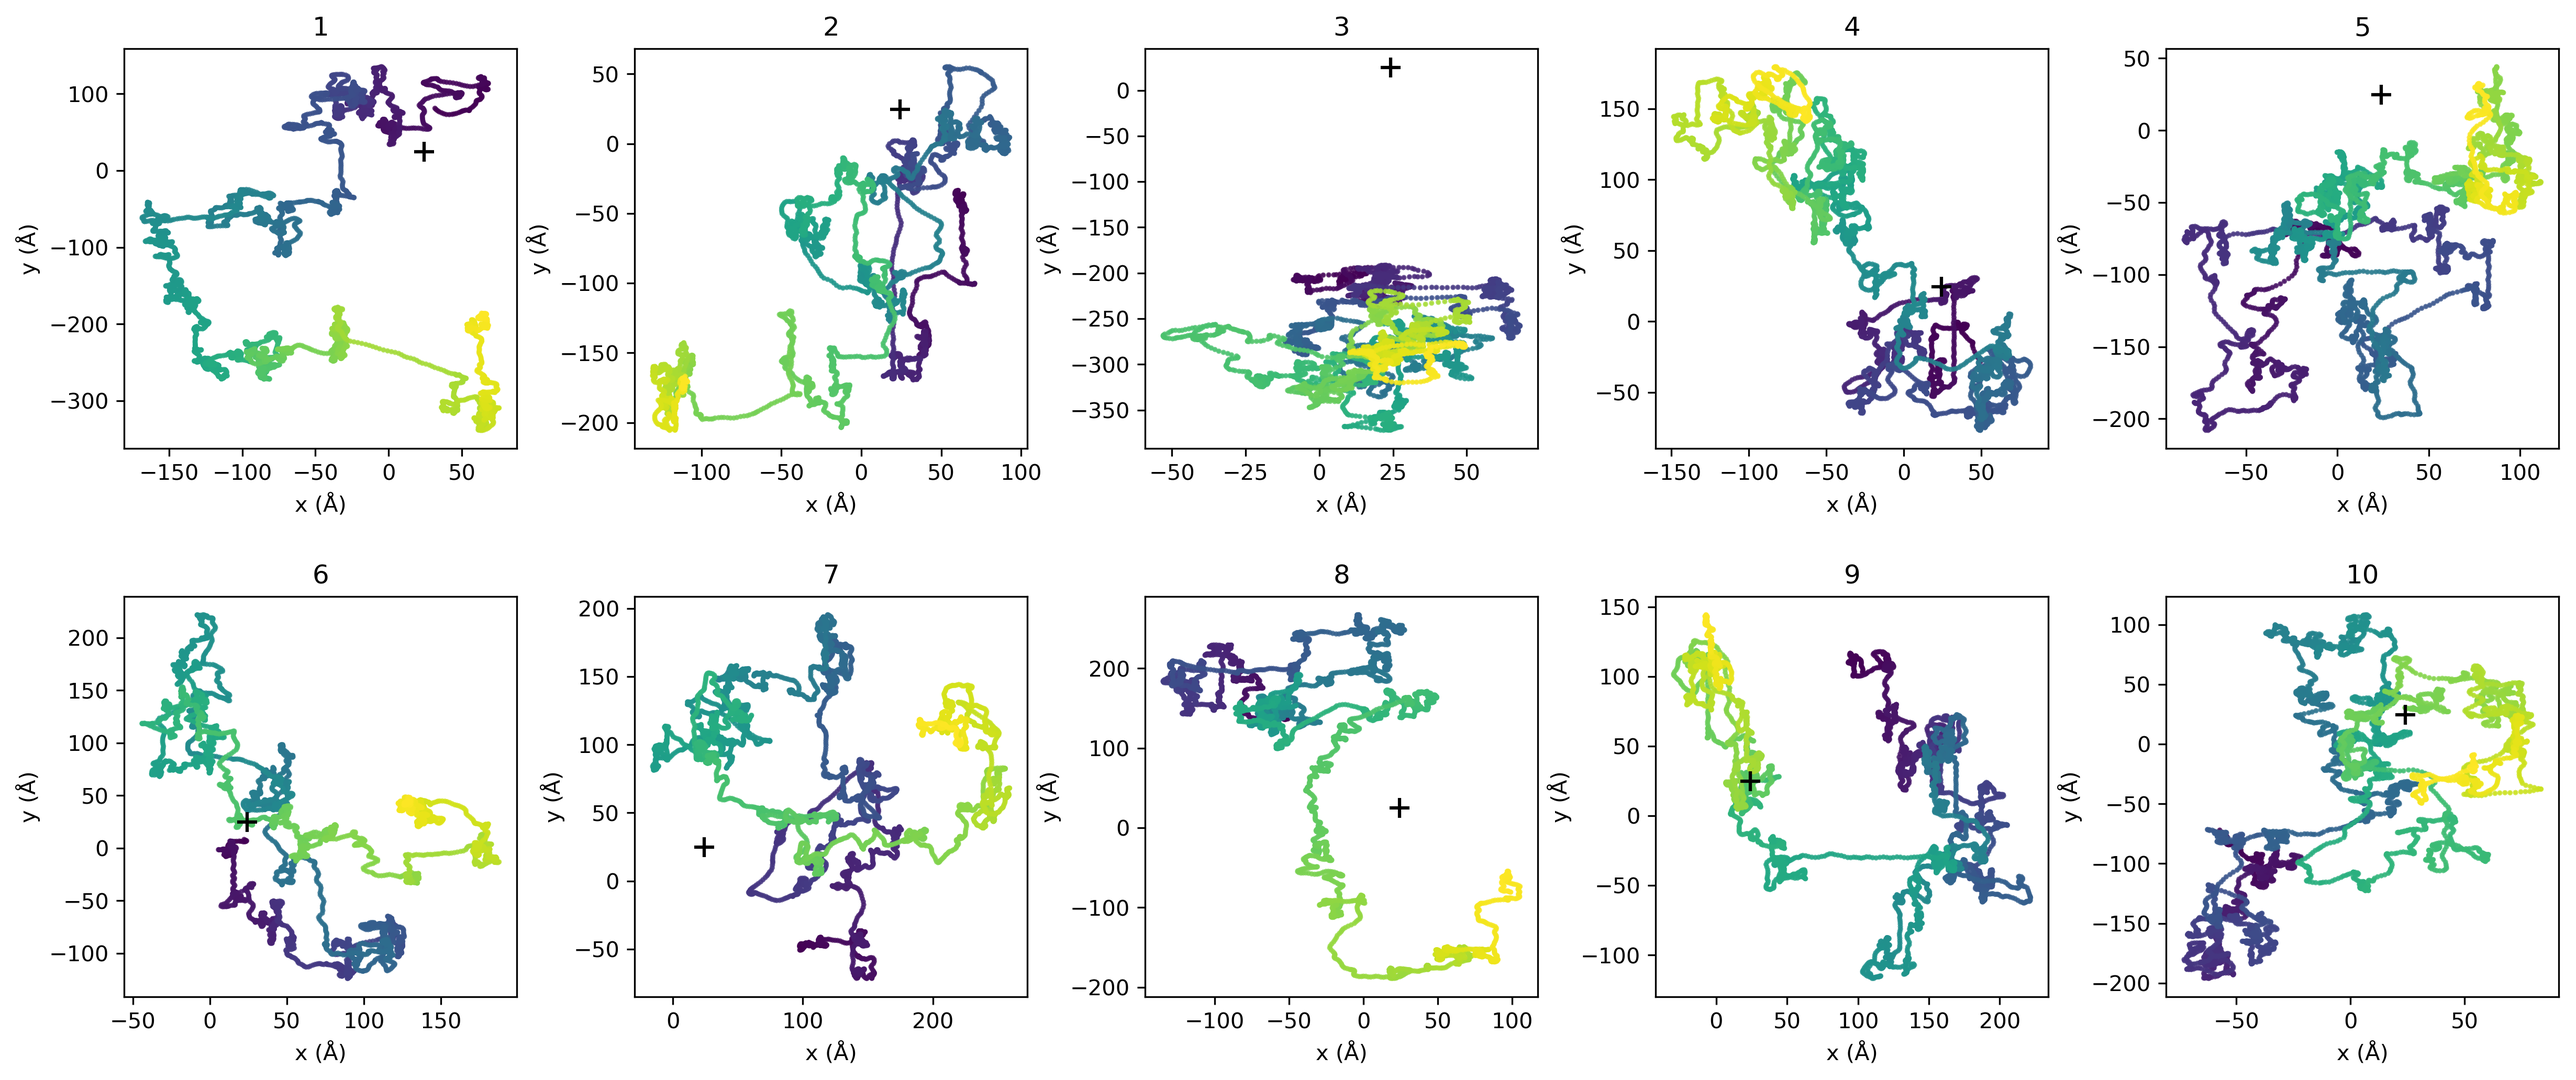
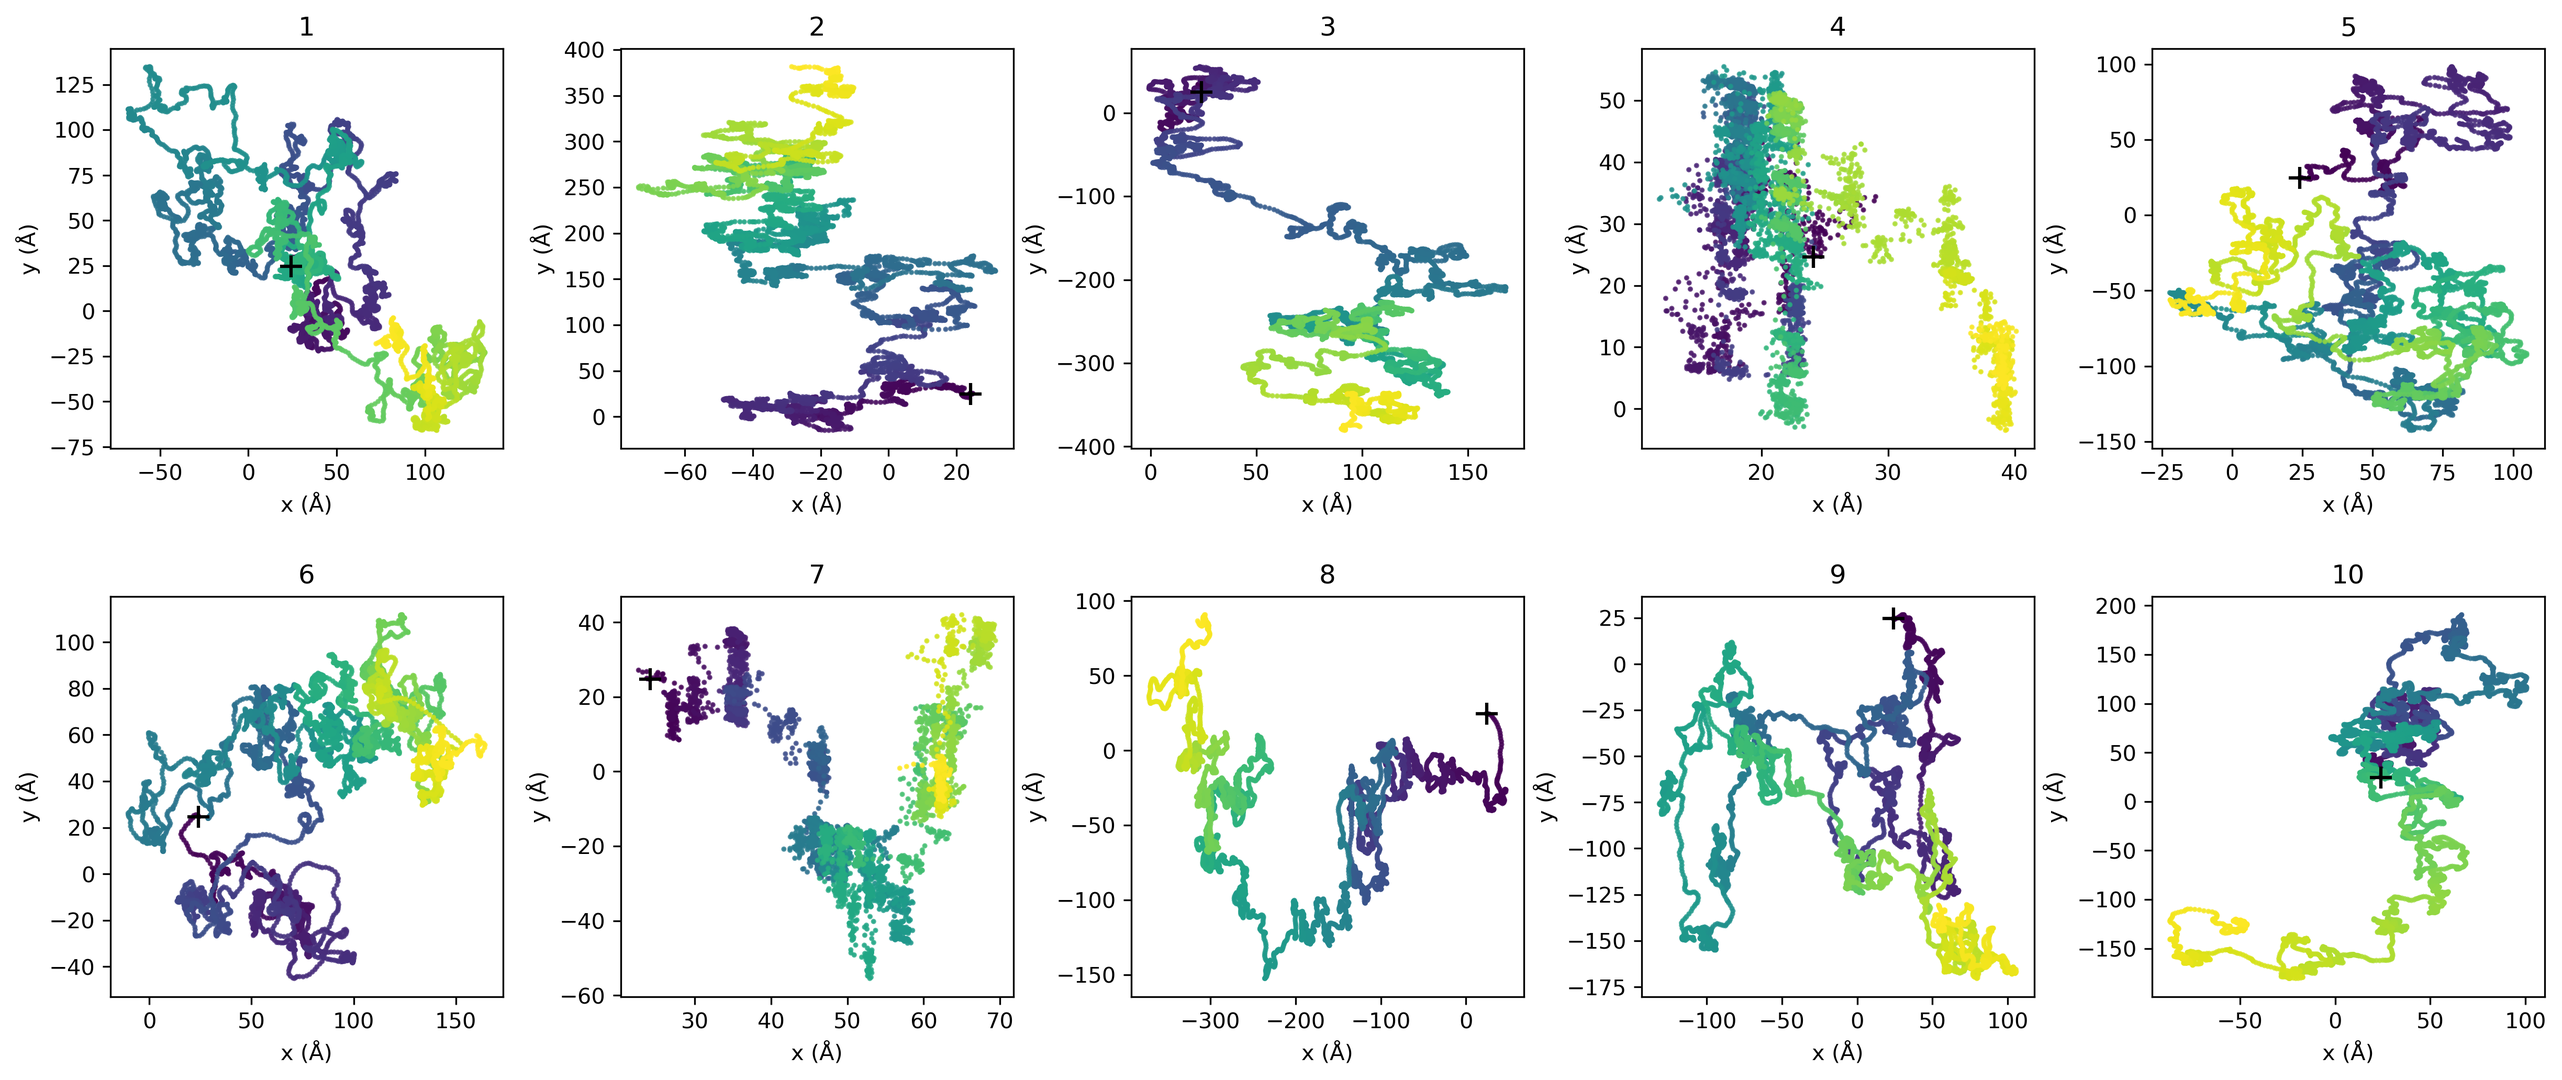
Update wlab gm presentation.

diff --git a/_pages/presentations/wlab-10-09-2018.html b/_pages/presentations/wlab-10-09-2018.html
@@ -91,7 +91,7 @@ movements (output) as a result of an appropriate external stimulation (input).*
 
 ### .red[1 | Nanocar structure-property relationships]
 
-- **Properties:** speed (diffusivity), directionality, cargo (type / amount)
+- **Properties:** speed (diffusivity), directionality, cargo (capacity / type)
 - **Structure:** wheels, chassis, surface interactions
 
 --
@@ -213,6 +213,11 @@ class: center, middle
 <p align="center"><img src="/assets/img/presentations/nanocar/dc-cu110-diff-per-run.png" height=160></p>
 
 **High variability**
+
+---
+### Trajectory for each molecule
+
+<p align="center"><img src="/assets/img/presentations/nanocar/md-flexible-molecule-trajectory.png" height=550></p>
 
 ---
 class: center, middle
